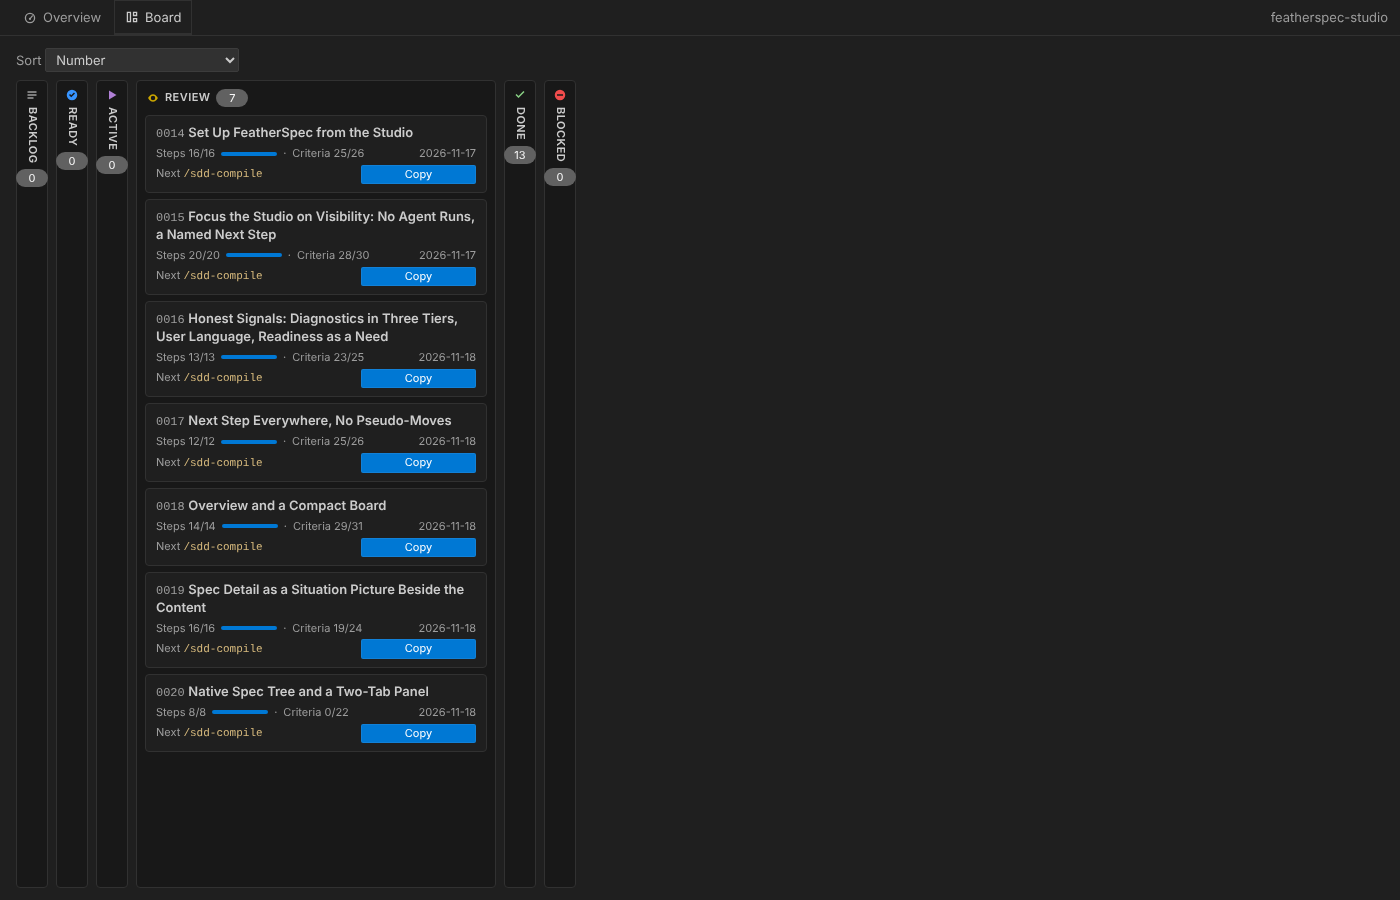
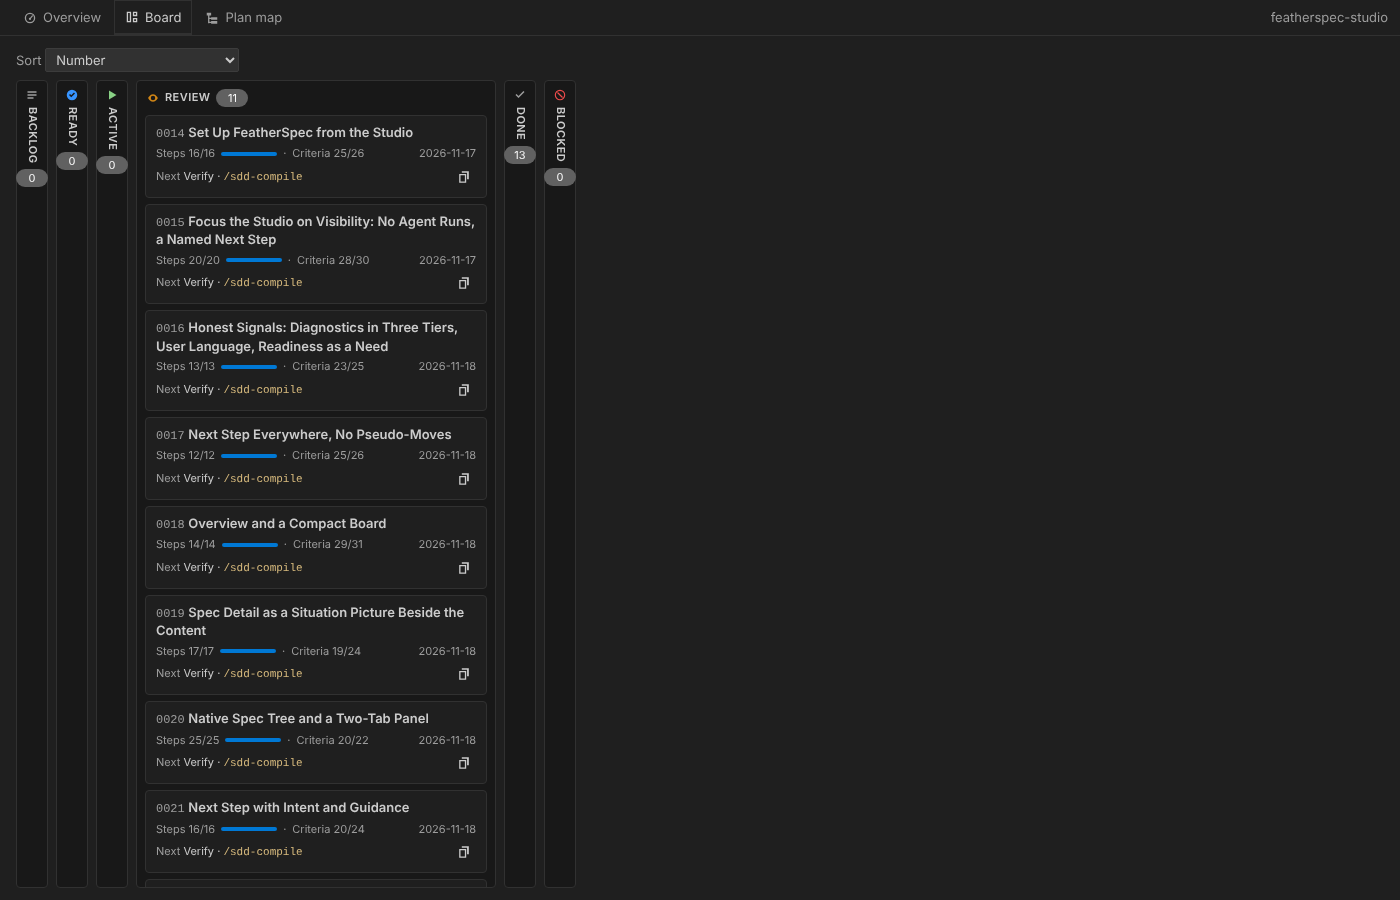
chore(0024): T-014 README screenshots show the UI of 5c70dbd and a Plan map shot
Claude-Session: https://claude.ai/code/session_01Gjx4ug55tnrs2YJYnrBwo6

diff --git a/src/adapters/node/docsScan.test.ts b/src/adapters/node/docsScan.test.ts
@@ -777,3 +777,38 @@ describe('product docs after 0024 (AC-015)', () => {
     });
 });
 
+
+describe('product docs after the final check of round 2 (0024 T-014 to T-022)', () => {
+    const SHOTS = [
+        ['overview-dark', 'Overview in the dark theme: Now lists the specs in Review, the first row with the primary Copy prompt and its coach line, then Up next and the figures'],
+        ['board-dark', 'Board in the dark theme: six columns, the Review column open with cards that show the next step and an icon Copy prompt'],
+        ['plan-map-dark', 'Plan map in the dark theme: a plan as stages, stage 2 can run in parallel with two step cards and the ways to run it, the side panel beside the map'],
+        ['spec-detail-light', 'Board in the light theme with the detail of a spec in the side panel: Next step with Copy prompt, Plan and Progress'],
+    ] as const;
+
+    function pngSize(bytes: Buffer): [number, number] {
+        return [bytes.readUInt32BE(16), bytes.readUInt32BE(20)];
+    }
+
+    it('the README links the four shots with the alt text of what each shows, and each is a 1400 by 900 PNG', async () => {
+        const readme = await read('README.md');
+        const images = [...readme.matchAll(/!\[([^\]]*)\]\((media\/screenshots\/[\w-]+\.png)\)/g)].map((match) => [match[2], match[1]]);
+        expect(images).toEqual(SHOTS.map(([name, alt]) => [`media/screenshots/${name}.png`, alt]));
+        for (const [name] of SHOTS) {
+            const bytes = await fs.readFile(path.join(root, 'media', 'screenshots', `${name}.png`));
+            expect(pngSize(bytes), name).toEqual([1400, 900]);
+        }
+    });
+
+    it('the Plan map shot stands in the README part about the Plan map', async () => {
+        const readme = await read('README.md');
+        const start = readme.indexOf('\n### Plan map\n');
+        expect(start).toBeGreaterThan(-1);
+        const part = readme.slice(start, readme.indexOf('\n### ', start + 1));
+        expect(part).toContain('media/screenshots/plan-map-dark.png');
+    });
+
+    it('.vscodeignore still keeps the screenshots out of the VSIX', async () => {
+        expect((await read('.vscodeignore')).split('\n')).toContain('media/screenshots/**');
+    });
+});

diff --git a/README.md b/README.md
@@ -4,7 +4,7 @@ A VS Code panel for projects that use [FeatherSpec](https://github.com/GregorBis
 
 Studio reads your project and starts no agent; the work with your agent stays in your assistant's chat. The one exception to read-only is [Set up FeatherSpec](#set-up-featherspec), which you start and confirm yourself.
 
-![Overview](media/screenshots/overview-dark.png)
+![Overview in the dark theme: Now lists the specs in Review, the first row with the primary Copy prompt and its coach line, then Up next and the figures](media/screenshots/overview-dark.png)
 
 ## Feature tour
 
@@ -20,11 +20,13 @@ What is in progress, what comes next and what needs fixing, one line per spec: *
 
 ### Board
 
-![Board](media/screenshots/board-dark.png)
+![Board in the dark theme: six columns, the Review column open with cards that show the next step and an icon Copy prompt](media/screenshots/board-dark.png)
 
 Every spec as a card in six columns: Backlog, Ready, Active, Review, Done and Blocked. A column without a card is a narrow strip with its name and count; the other columns share the width, and the board scrolls sideways when they do not fit. **Done** is collapsed until you open it with its toggle, and Studio remembers your choice per workspace. A card has three rows: number and title; what matters in its state (a Backlog card shows what the spec still needs, a Blocked card why, otherwise the steps and criteria progress), a warning with the number of problems and the day of the last change; and the next step. Hover a Ready, Review or Blocked column header for the rule behind the state, and a card for its description. The day comes from the plan's `Last updated:` line, else from the file's modification time; it is left out while all specs show the same day. Opening the Board from the Overview with a filter shows one **Filter: …** chip with **Clear filters**; sort by number, title or last change. The last line of a card is the next step: **Next**, the short intent and the short form of the prompt (for example `Plan · /sdd-plan`) with a **Copy prompt** button that puts the full line on your clipboard. The board works with the keyboard: arrow keys move between cards, Enter or Space selects a card and shows its detail in the side panel, Tab from the card reaches its **Copy prompt**, Enter or Space copies. The board moves no spec; lifecycle moves belong to FeatherSpec's `/sdd-lifecycle`.
 
 ### Plan map
+
+![Plan map in the dark theme: a plan as stages, stage 2 can run in parallel with two step cards and the ways to run it, the side panel beside the map](media/screenshots/plan-map-dark.png)
 
 The third tab shows one spec's plan as stages. Select a spec that has a plan (in the tab's own list, the Specs view, the Overview or the Board) and each stage is a row: `Stage 2 — add and subtract`, with a line that says whether its steps run in order or can run in parallel because they share no file. Steps are cards with their files and the acceptance criteria they cover, side by side where they can run together; open a card for what to do and how it is verified. A finished stage folds to the step IDs. The side panel stands beside the map from 900 px; below that the map shows alone.
 
@@ -32,7 +34,7 @@ For the stage you are on, **Ways to run stage 2** offers three prompts to copy: 
 
 ### The detail of a spec
 
-![Board with the detail of a spec in the side panel](media/screenshots/spec-detail-light.png)
+![Board in the light theme with the detail of a spec in the side panel: Next step with Copy prompt, Plan and Progress](media/screenshots/spec-detail-light.png)
 
 Select a spec in the Specs view, on the Board or in the Overview (click, Enter or Space) and its detail opens in a **side panel** to the right of the area; the area stays where it is. Set the width with the **divider** between the area and the panel (move it with the pointer, or focus it and press the arrow keys; Enter or a double click resets it); Studio remembers it for the workspace. Below 900 px the area or the detail shows alone: a back button at the top of the detail returns to the area, and so does Escape. Beside the area, close the panel with its close button or Escape; focus returns to the card or row you came from. The selection survives switching tabs, closing the panel and reloading the window. The panel is a picture of the spec's situation, not a copy of its files: the state, **Next step** (with **Copy prompt**), the **Problems**, **Progress** (steps done and the next open step; criteria verified and the ones still open), the **Files** (spec, plan, archived plans, return notes) and, folded, the **Format notes** and the **Status history**. Every ID and file name is a link: it opens the file in the editor **beside** the Studio, at the line where the ID is defined. A file that is gone reads "File not found: ..." at the link.
 

diff --git a/.specs/active/0024-send-next-step-to-assistant.plan.md b/.specs/active/0024-send-next-step-to-assistant.plan.md
@@ -3,7 +3,7 @@
 **Spec:** [0024-send-next-step-to-assistant.md](0024-send-next-step-to-assistant.md)
 **Status:** Done
 **Last updated:** 2026-11-18
-**Current step:** T-014 (T-001…T-013 verified; manual AC-016 real window and AC-017…AC-019 open)
+**Current step:** T-015 (T-001…T-013 verified; manual AC-016 real window and AC-017…AC-019 open)
 
 ## Approach
 
@@ -608,7 +608,8 @@ copy (`git archive` of the head into `/tmp`).
   - `docsScan.test.ts` first: the README links the four shots, each exists, each has an alt text of its own content,
     `.vscodeignore` still holds `media/screenshots/**`.
 - **Verify:** `npx vitest run --project node src/adapters/node/docsScan.test.ts` red, then green
-- [ ] **Verified (T-014):**
+- [x] **Verified (T-014):** 2026-11-19 red: the new `docsScan.test.ts` against a `git archive` of 5c70dbd in `/tmp` 2 failed (the alt texts of the three old links, no `plan-map-dark.png` in the Plan map part); green after: `npx vitest run --project node src/adapters/node/docsScan.test.ts` 153 passed. The four shots are 1400×900 PNGs from `/home/claude/orch/preview/readme2/` (preview harness, real core at 5c70dbd; the Plan map from a copy of `fs110-parallel-synthetic`); `.vscodeignore` is unchanged and still holds `media/screenshots/**` (the README links the images in the repository; the VSIX ships none). Doc-only: no code gates.
+- **Notes:** the README's three alt texts now say what each image shows (Overview: Now with the primary Copy prompt, coach line, Up next, figures; Board: six columns, Review open, icon Copy prompt; detail: light Board with the side panel). 0013 AC-017 (taste of the shots) stays Gregor's.
 
 ### T-015 — `activeContext.md` is a short dashboard again
 
